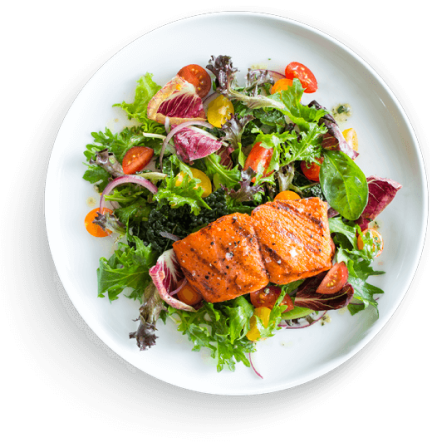
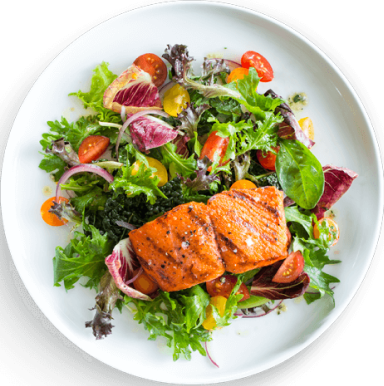
bugs fixed

diff --git a/burger.css b/burger.css
@@ -124,7 +124,7 @@ header {
 
 .main__content img {
     position: absolute;
-} */ 
+}     старый код*/ 
 
 
 * {
@@ -188,8 +188,22 @@ header{
 
 .line {
     padding: 0 100px;
+    padding-bottom: 155px;
 }
 
+.main {
+    display: flex;
+    justify-content: center; 
+    align-items: center; 
+    height: 100vh;
+}
+
+.centered-container {
+    display: flex;
+    justify-content: space-between;
+    padding-left: 97px;
+    padding-right: 179px;
+}
 
 main .preline {
     width: 54px;
@@ -209,7 +223,6 @@ main .preline {
 .left-block__line {
     display: flex;
     align-items: center;
-    /* justify-content: space-between; */
 }
 
 .header-text {
@@ -238,6 +251,7 @@ main .preline {
     font-size: 18px;
     font-weight: 400;
     line-height: 28px; /* 155.556% */
+    margin-bottom: 23px;
 }
 
 .main-text span {
@@ -247,6 +261,17 @@ main .preline {
     font-size: 18px;
     font-weight: 500;
     line-height: 28px;
+}
+
+.main__buttons {
+    display: flex;
+    gap: 18px;
+}
+
+.left-block {
+    display: flex;
+    flex-direction: column; 
+    align-items: flex-start;
 }
 
 .left-block button {
@@ -261,6 +286,7 @@ main .preline {
     text-transform: capitalize;
     border-radius: 12.412px;
     border: 1.5px solid #6C5FBC;
+    margin-bottom: 23px;
 }
 
 .left-block button:hover {
@@ -268,6 +294,12 @@ main .preline {
     border-radius: 12.412px;
     background: #6C5FBC;
     cursor: pointer;
+}
+
+.third__section {
+    display: flex;
+    justify-content: space-between;
+    align-items: center;
 }
 
 .third__section p {
@@ -278,25 +310,25 @@ main .preline {
 }
 
 .circle {
-    width: 422px;
-    height: 424px;
-    flex-shrink: 0;
-    border-radius: 424px;
+    width: 420px;
+    height: 420px;
+    border-radius: 50%;
     background: linear-gradient(137deg, #6C5FBC 4.83%, #5144A0 98.22%);
     position: relative;
+    overflow: hidden;
+    display: flex;
+    justify-content: center;
+    align-items: center;
 }
 
 .circle img {
-    position: absolute;
-    /* top: 0; */
-    /* left: 0; */
-    /* padding-left: -10px; */
-    width: 100%;
-    height: 100%;
-    object-fit: cover; /* Позволяет изображению заполнять всю площадь круга */
+    max-width: 100%; 
+    max-height: 100%; 
+    height: auto;
+    object-fit: cover; 
     border-radius: 50%;
 }
 
 .right-block {
-    display: inline;
+    
 }

diff --git a/index.html b/index.html
@@ -96,39 +96,44 @@
 
     <main>
 
+        <div class="centered-container">
+
+            <div class="left-block">
+
+                <div class="left-block__line">
+                    <div class="preline"></div>
+                    <p>OVER 1000 USERS</p>
+                </div>
+                
+                <p class="header-text">Enjoy Foods All Over The <span>World</span></p>
+                <p class="main-text">EatLy help you set saving goals, earn cash back offers,
+                     Go to disclaimer for more details and get paychecks up to two days early. 
+                     Get a <span>$20 bonus.</span></p>
     
-        <div class="left-block">
-
-            <div class="left-block__line">
-                <div class="preline"></div>
-                <p>OVER 1000 USERS</p>
+                <div class="main__buttons">
+                    <button>Get Started</button>
+                    <button>Go Pro</button>
+                </div>
+                
+                <div class="third__section">
+                    <img src="./main/trustpilot-1 1.svg" alt="">
+                    <img src="./main/Star.svg" alt="">
+    
+                    <p>4900+</p>
+                </div>
+                
             </div>
-            
-            <p class="header-text">Enjoy Foods All Over The <span>World</span></p>
-            <p class="main-text">EatLy help you set saving goals, earn cash back offers,
-                 Go to disclaimer for more details and get paychecks up to two days early. 
-                 Get a <span>$20 bonus.</span></p>
-
-            <div>
-                <button>Get Started</button>
-                <button>Go Pro</button>
+    
+            <div class="right-block">
+                <div class="circle">
+                    <img src="./main/Food Image.png" alt="">
+                </div>
+                
             </div>
-            
-            <div class="third__section">
-                <img src="./main/trustpilot-1 1.svg" alt="">
-                <img src="./main/Star.svg" alt="">
 
-                <p>4900+</p>
-            </div>
-            
         </div>
-
-        <div class="right-block">
-            <div class="circle">
-                <img src="./main/Food Image.png" alt="">
-            </div>
-            
-        </div>
+    
+        
 
     </main>
 
